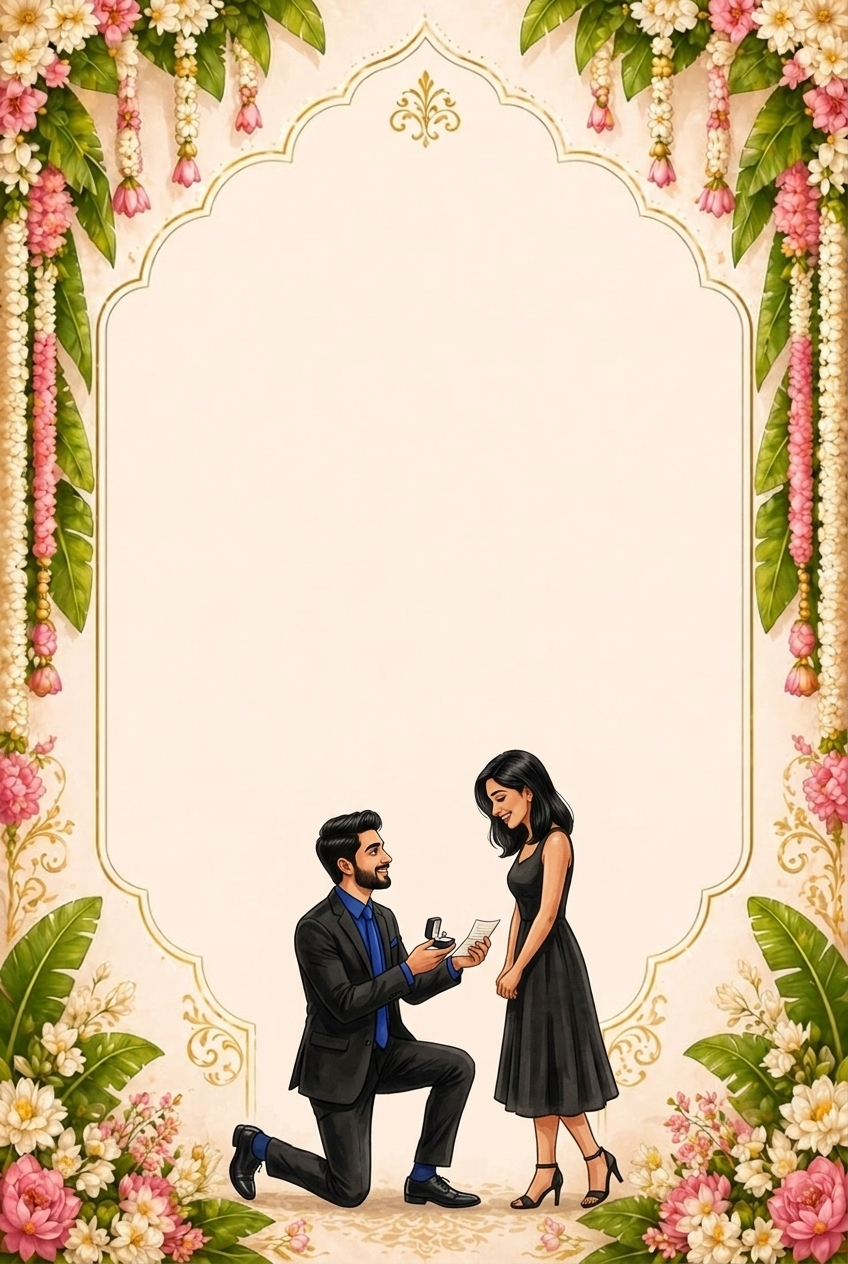
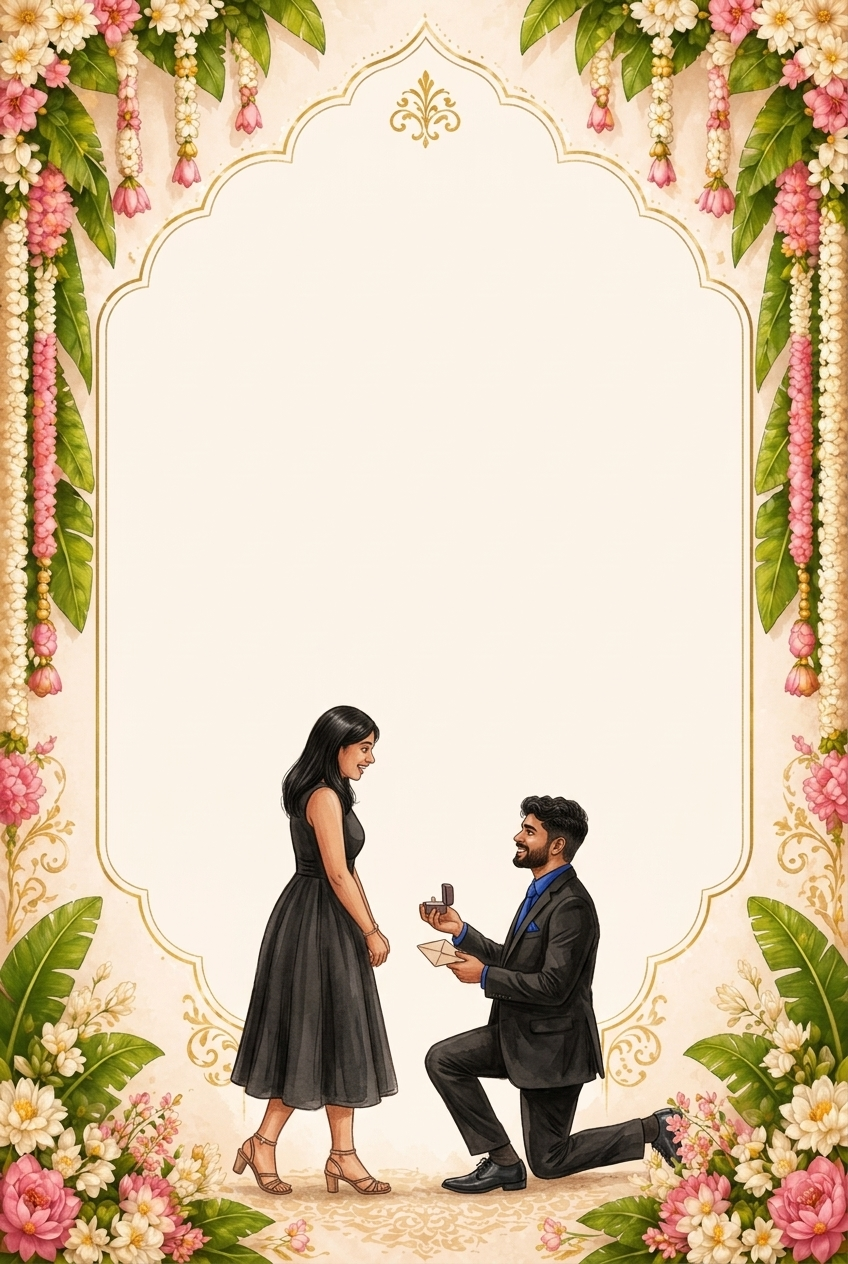
Remove Front Portrait option and restore first Kneeling Proposal sketch

Changed region(s): [[0.2453, 0.5554, 0.8585, 1.0], [0.1533, 0.8639, 0.2146, 0.9256]]

diff --git a/src/components/IntroductionSection.jsx b/src/components/IntroductionSection.jsx
@@ -23,12 +23,6 @@ const ARCH_ILLUSTRATION_MODES = [
     alt: 'Watercolor illustration of Vishnu Priyan and Noviya looking into each other’s eyes inside a floral gold temple arch',
   },
   {
-    id: 'front',
-    label: 'Front Portrait',
-    src: '/images/page2-arch-front-portrait.jpg',
-    alt: 'Watercolor illustration of Vishnu Priyan and Noviya smiling together toward the camera inside a floral gold temple arch',
-  },
-  {
     id: 'kneeling',
     label: 'Kneeling Proposal',
     src: '/images/page2-arch-kneeling-proposal.jpg',
